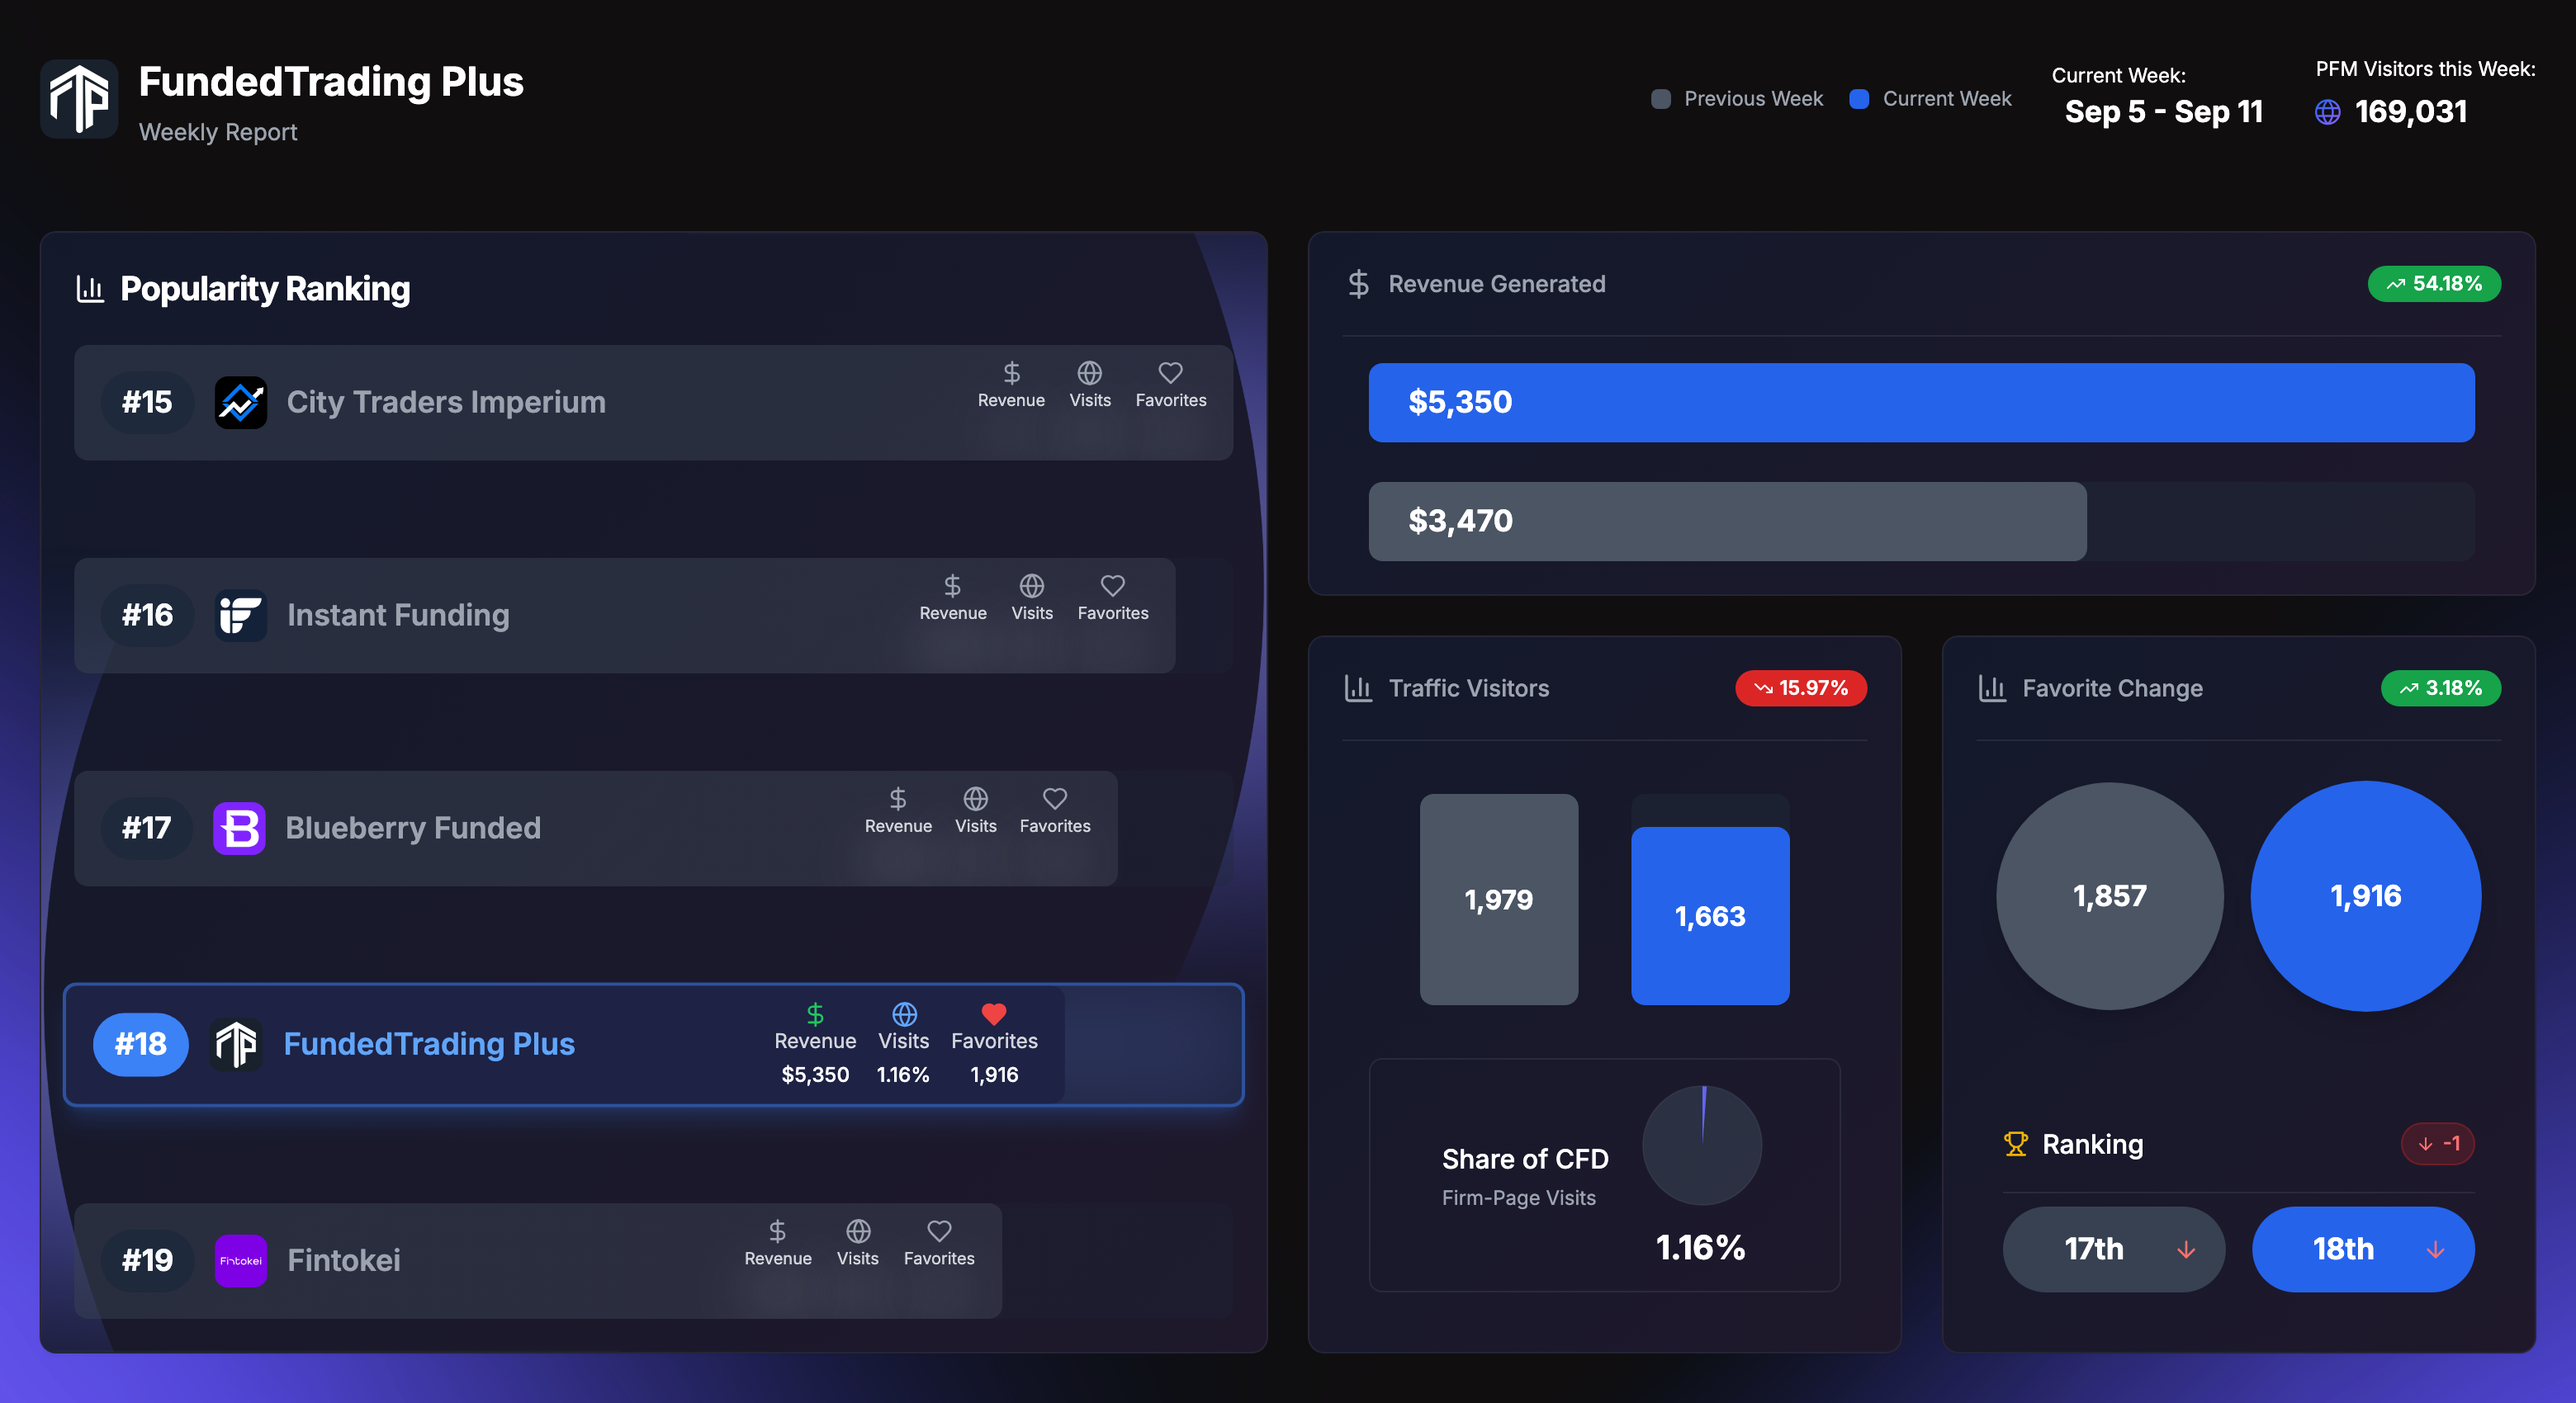
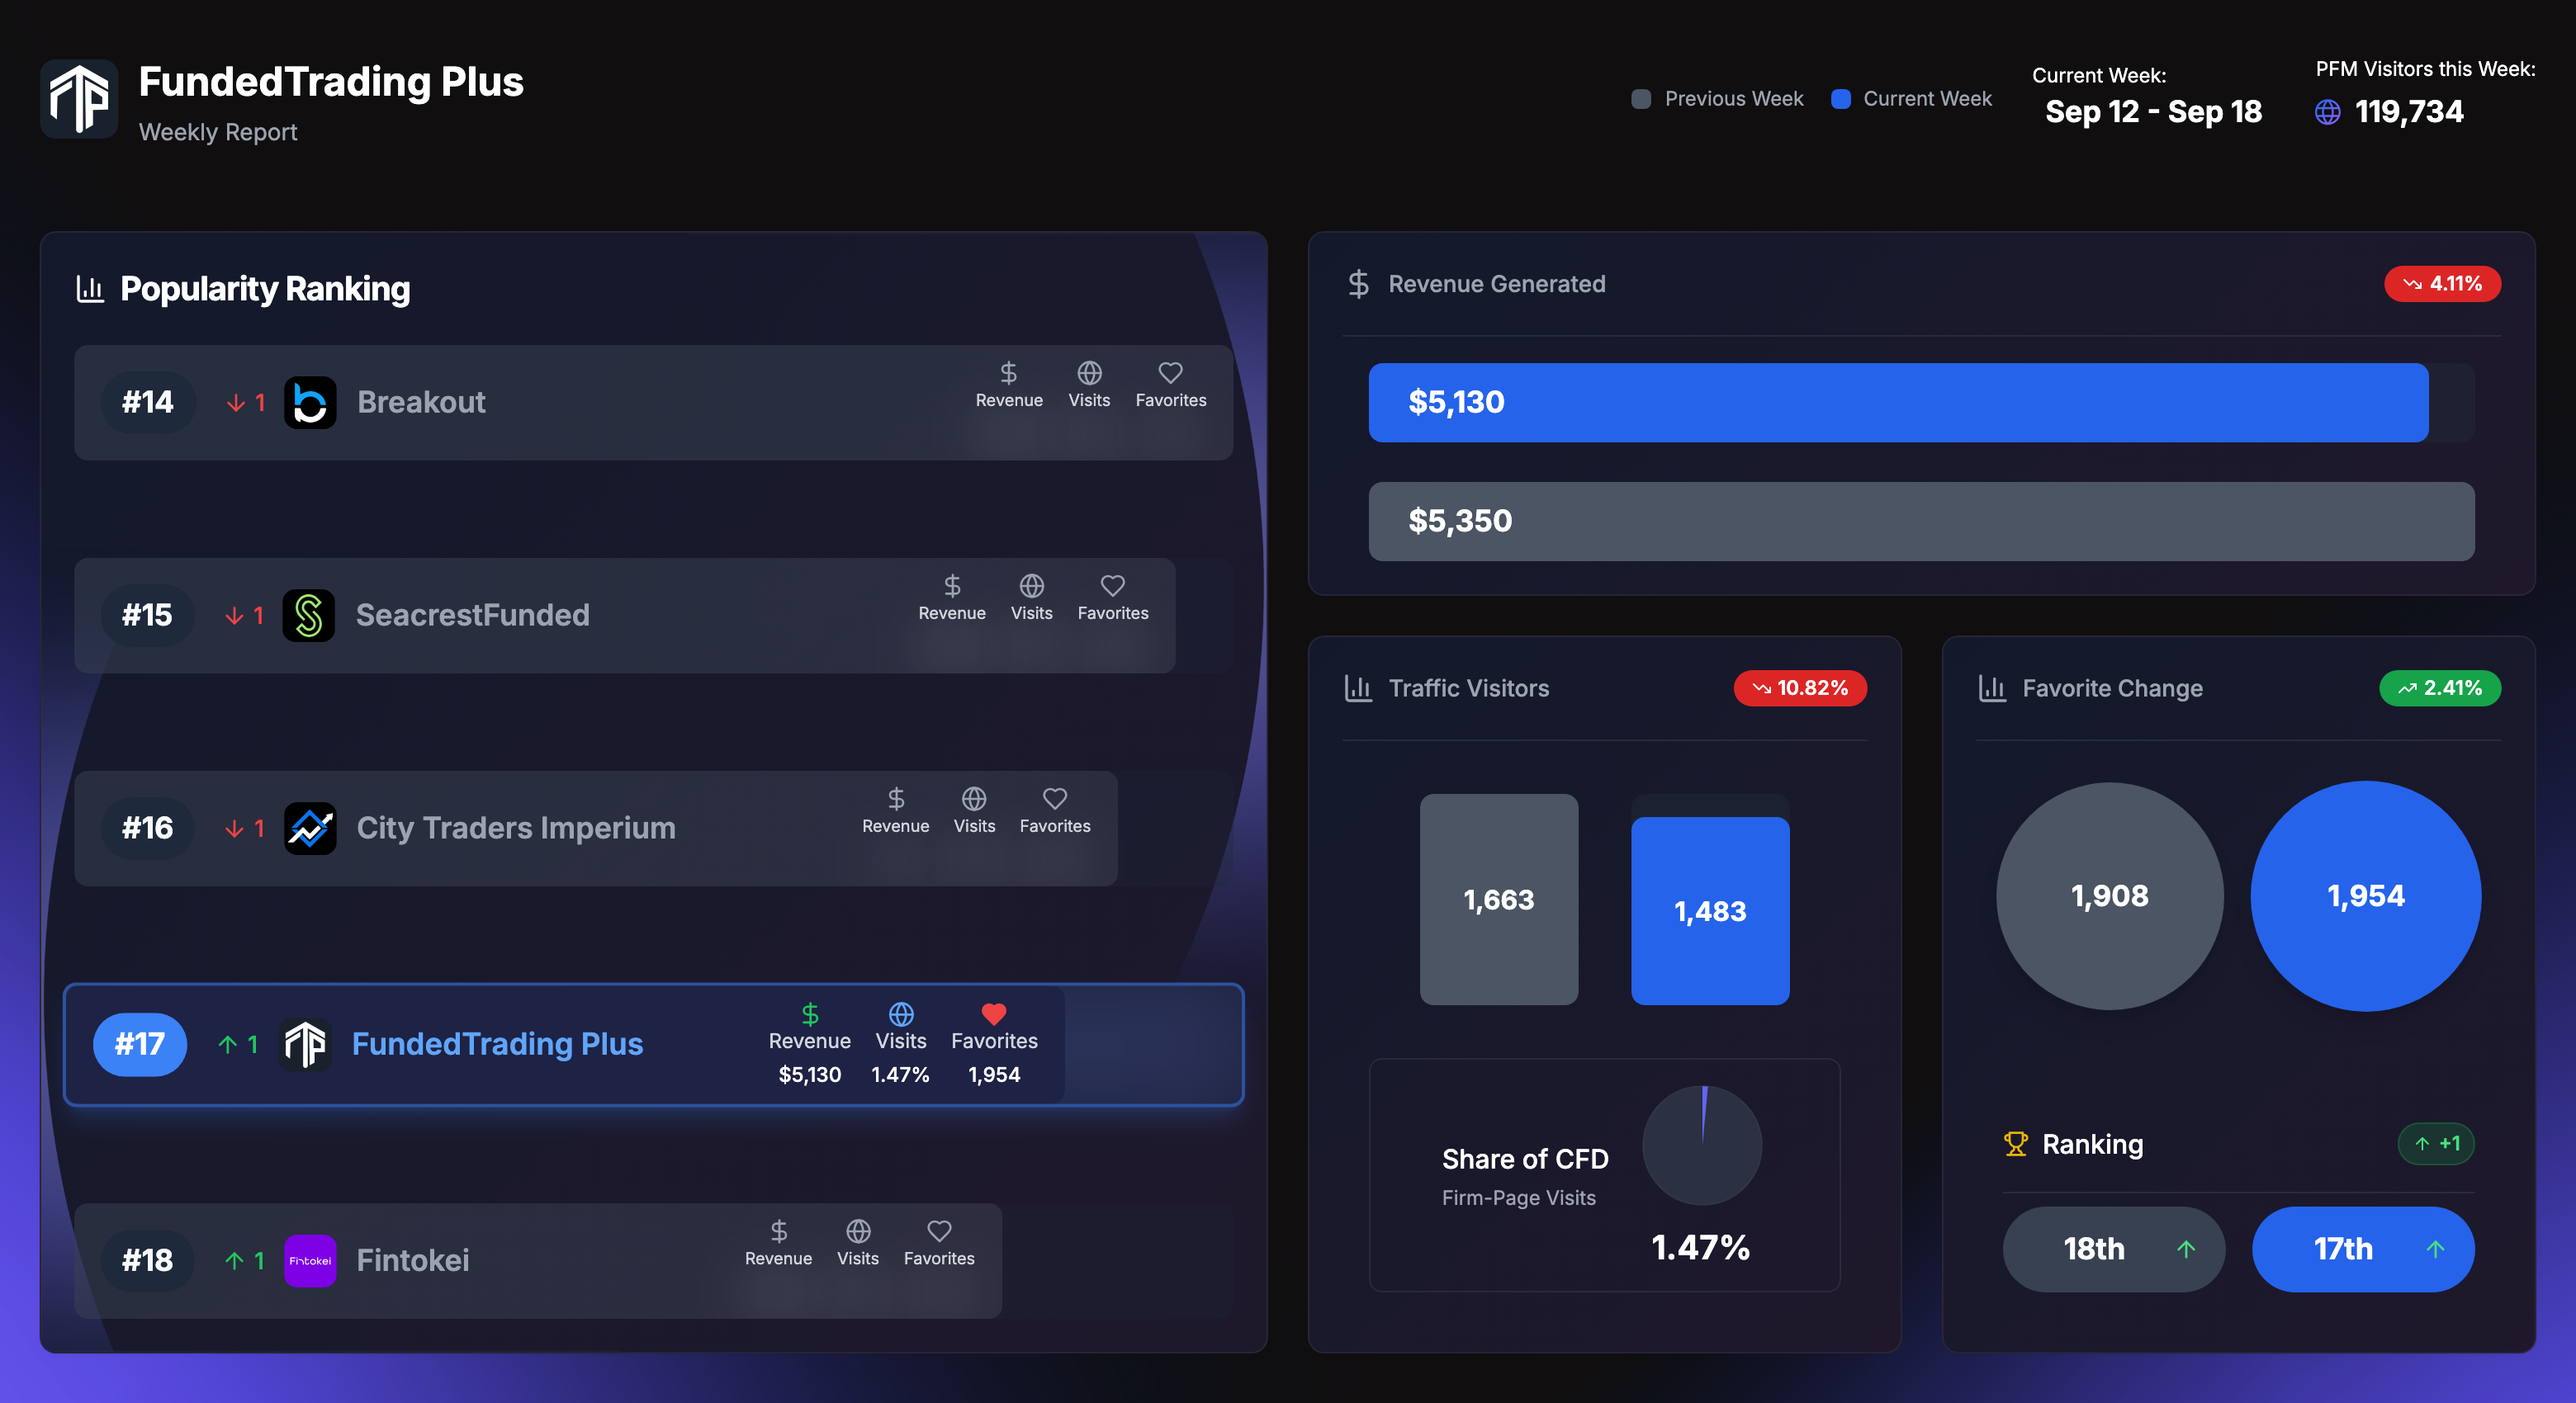
Update dashboards and data files for September 12
🤖 Generated with [Claude Code](https://claude.ai/code)

diff --git a/lib/globalConfig.ts b/lib/globalConfig.ts
@@ -5,22 +5,22 @@ export type DashboardCategory = 'prop-trading' | 'futures'
 
 export const globalConfig = {
   // Week period displayed in header
-  currentWeek: 'Sep 5 - Sep 11',
+  currentWeek: 'Sep 12 - Sep 18',
   
   // Total visitors for the platform (not per company)
-  pfmVisitors: 169031,
+  pfmVisitors: 119734,
   
   // Category-specific configurations
   categories: {
     'prop-trading': {
       name: 'Prop Trading',
       csvFile: 'data.csv',
-      visitors: 169031,
+      visitors: 119734,
     },
     'futures': {
       name: 'Futures',
       csvFile: 'datafutures.csv', 
-      visitors: 169031, // Using same value as CFD
+      visitors: 119734, // Using same value as CFD
     }
   },
   
